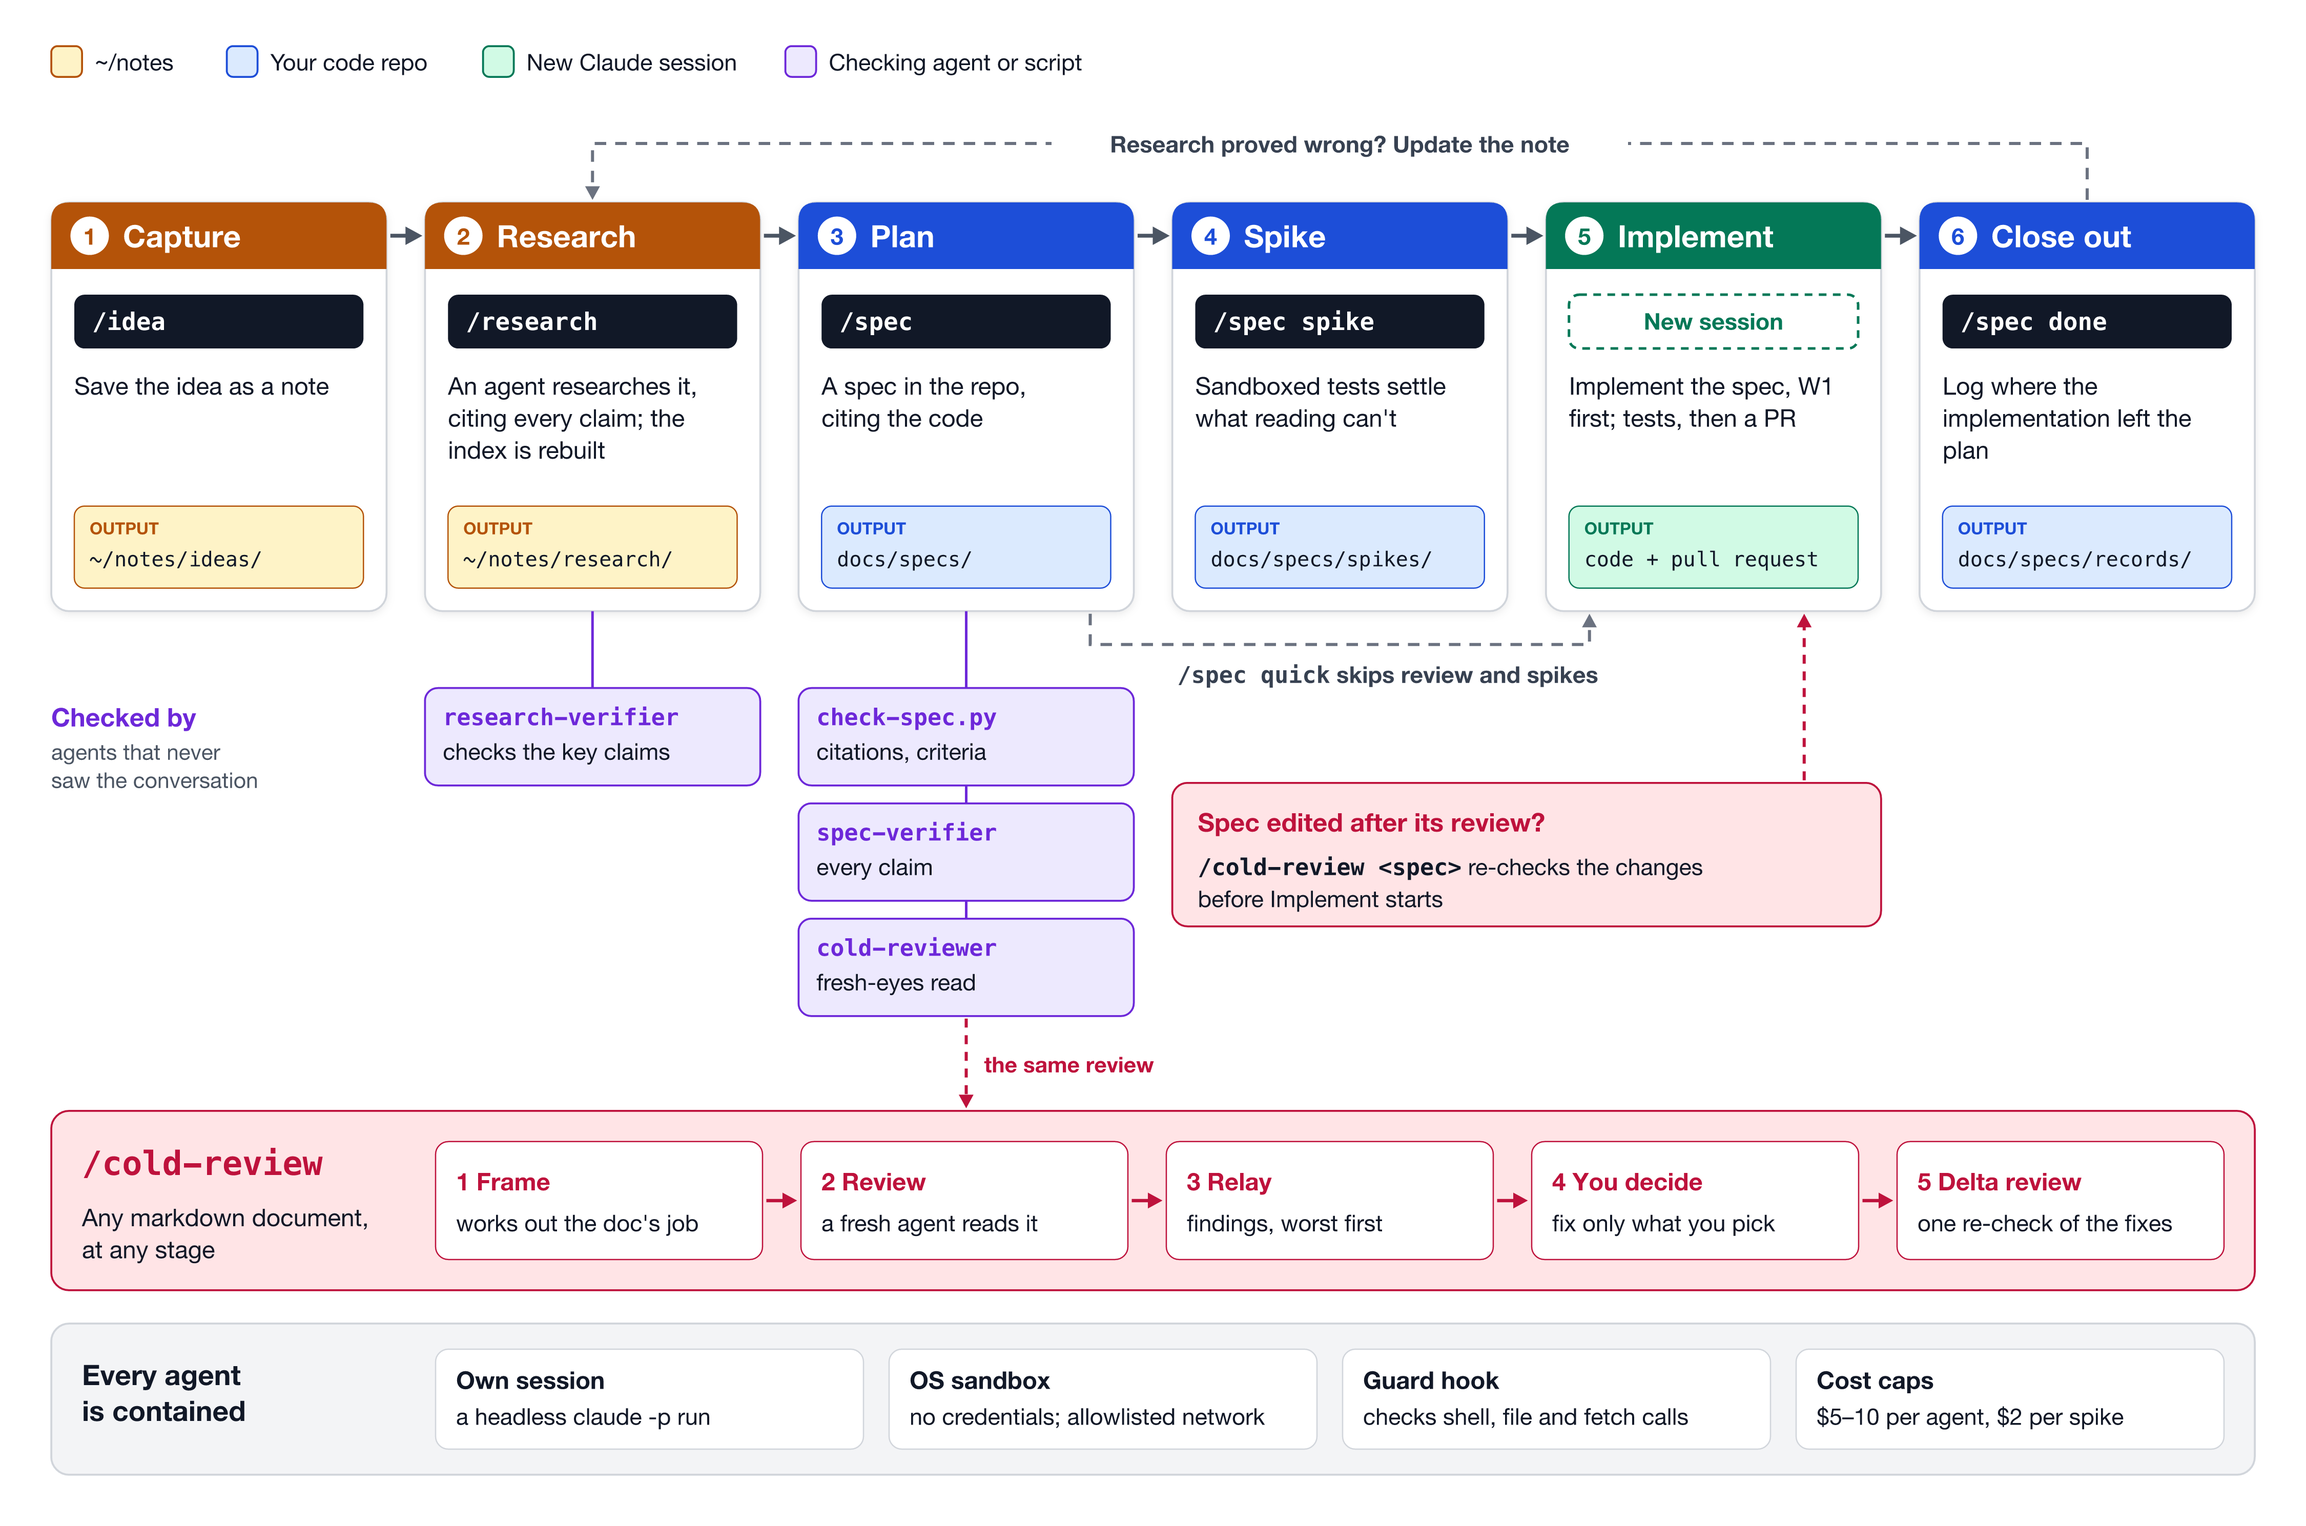
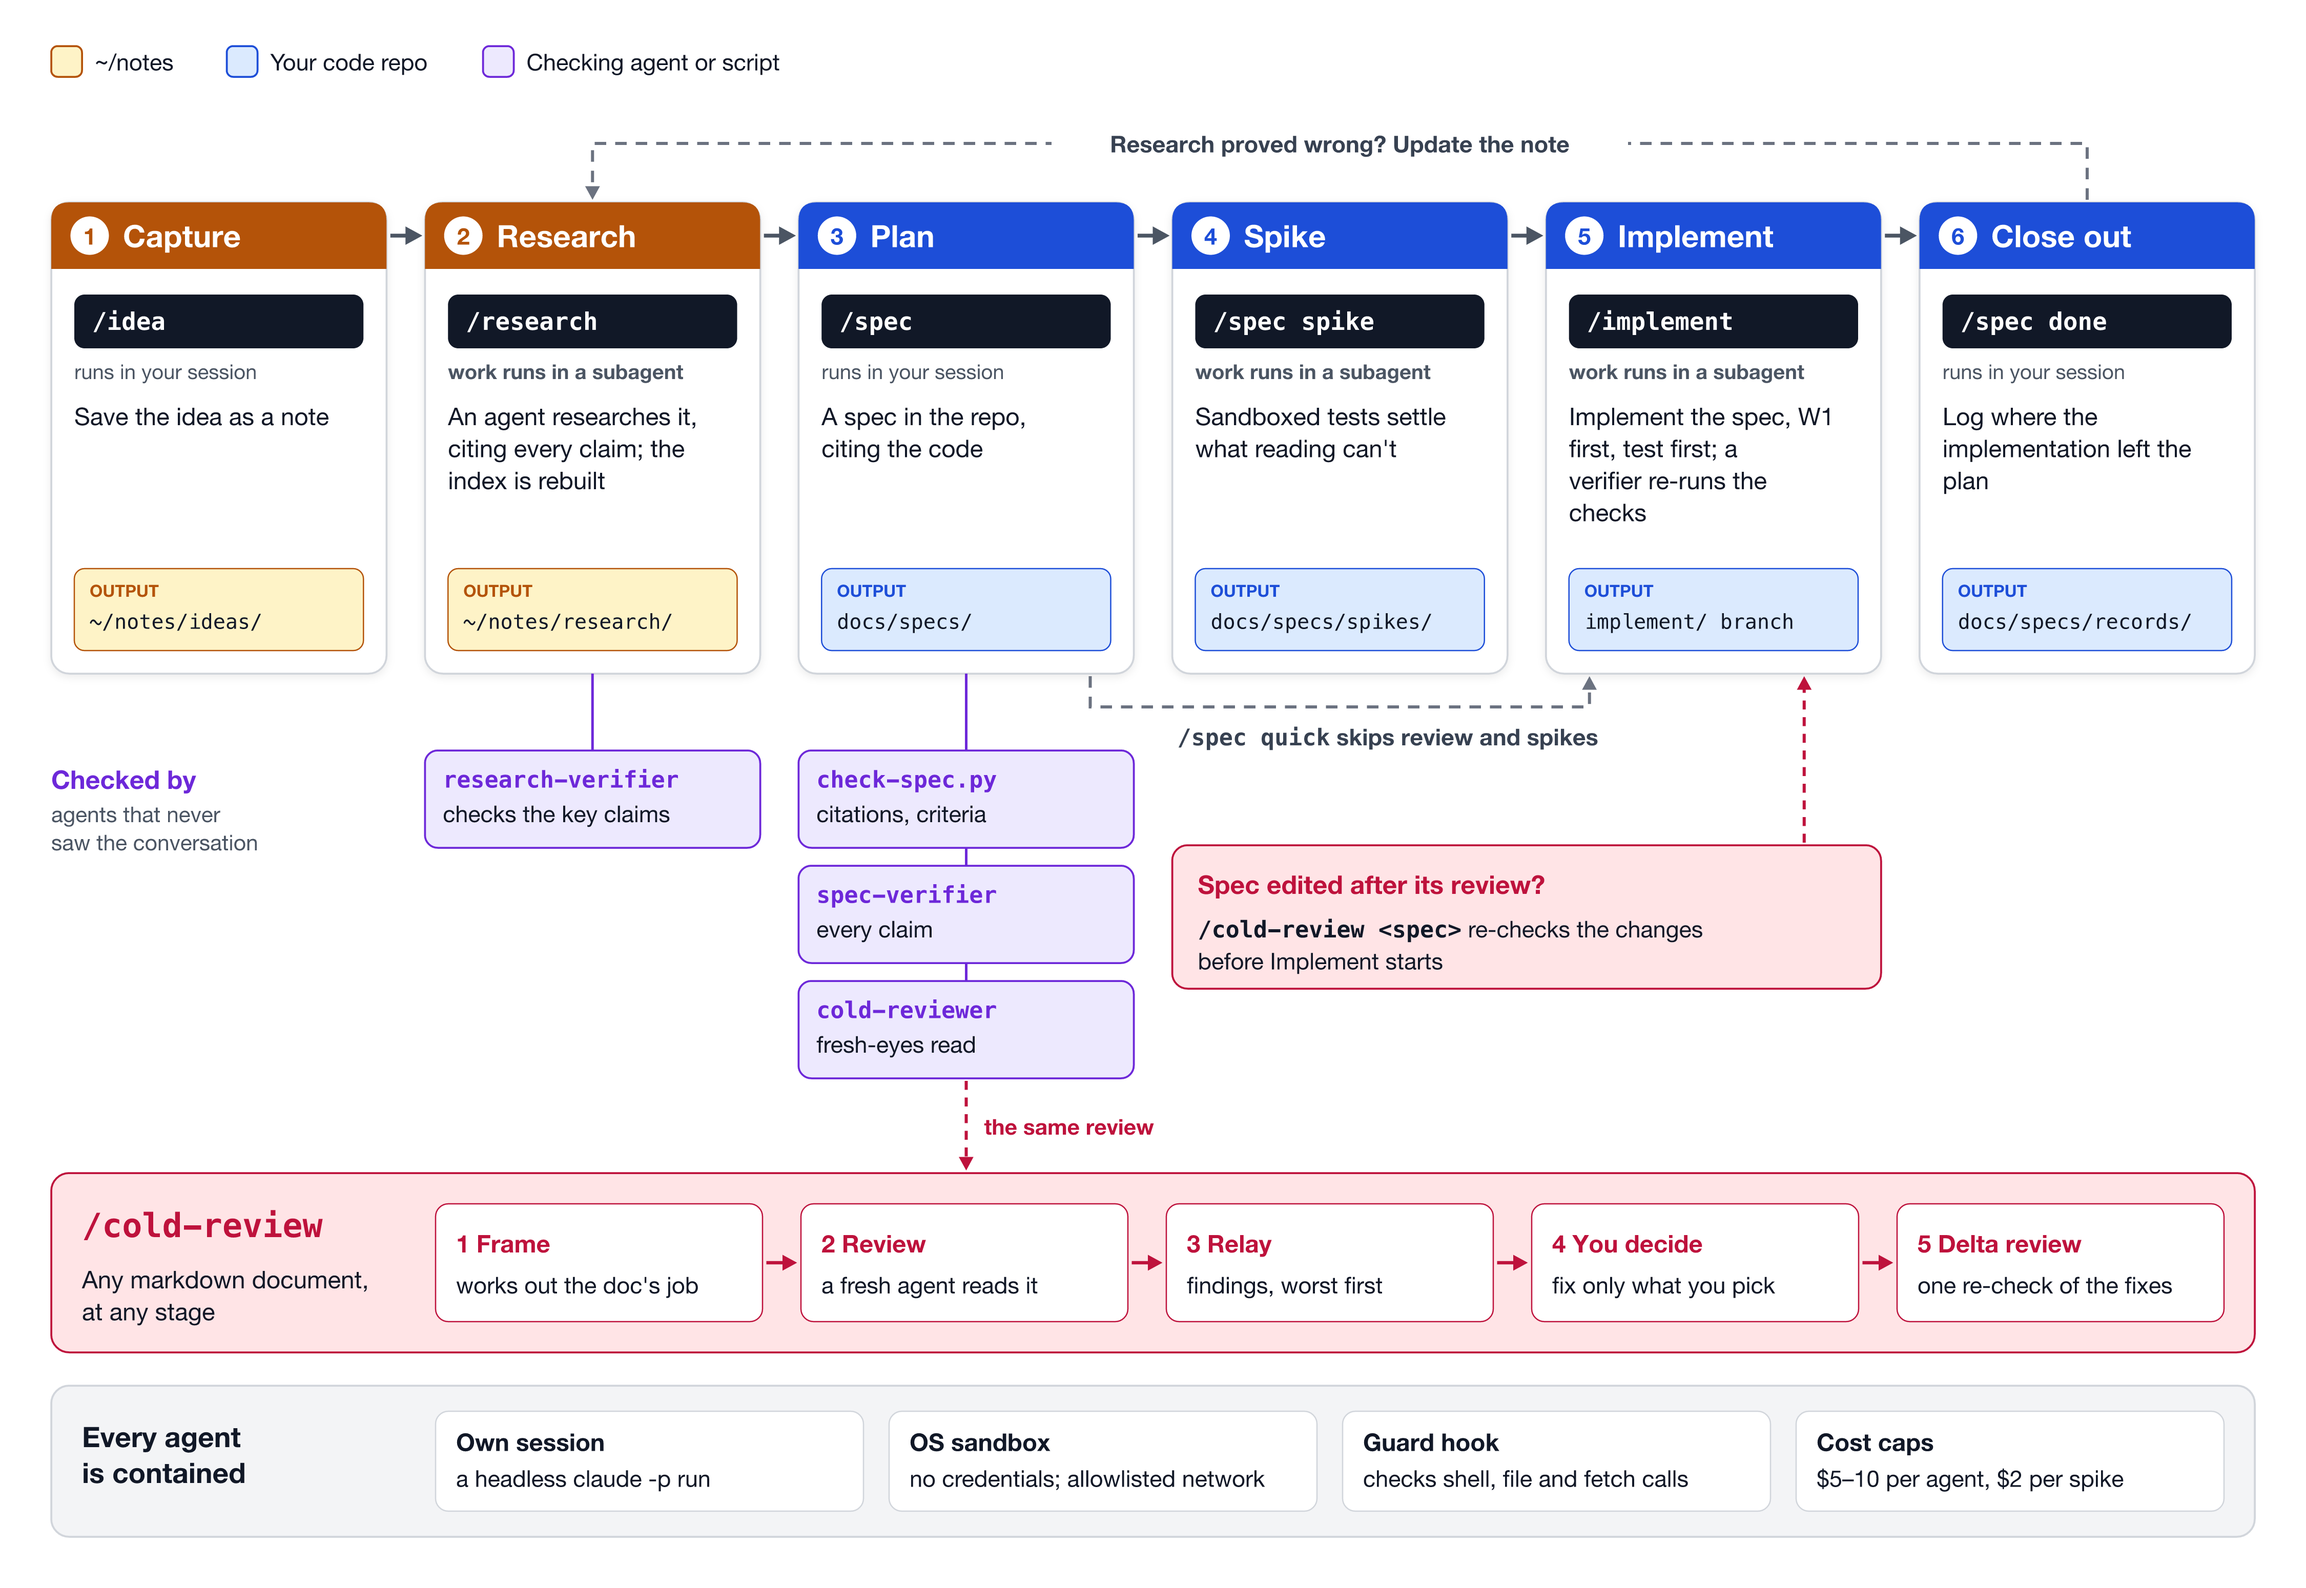
readme: the diagram shows /implement and where each stage's work runs
Stage 5 gets a /implement command box and the repo colour, the New Claude
session key goes, and every stage says whether its work runs in your
session or in a subagent. The README explains the line and marks
/implement as planned. Redrawn, social preview included.

diff --git a/docs/diagram/workflow.py b/docs/diagram/workflow.py
@@ -27,9 +27,10 @@ SANS = "Helvetica Neue, Helvetica, Arial, sans-serif"
 MONO = "Menlo, Monaco, monospace"
 
 # ------------------------------------------------------------------ content
-# (number, title, colour key, command or None for a new session, what happens, output)
+# (number, title, colour key, command or None for a new session, what happens, output,
+#  whether its work runs in a subagent: a separate headless session)
 STAGES = [
-    (1, "Capture", "notes", "/idea", "Save the idea as a note", "~/notes/ideas/"),
+    (1, "Capture", "notes", "/idea", "Save the idea as a note", "~/notes/ideas/", False),
     (
         2,
         "Research",
@@ -37,8 +38,9 @@ STAGES = [
         "/research",
         "An agent researches it, citing every claim; the index is rebuilt",
         "~/notes/research/",
+        True,
     ),
-    (3, "Plan", "repo", "/spec", "A spec in the repo, citing the code", "docs/specs/"),
+    (3, "Plan", "repo", "/spec", "A spec in the repo, citing the code", "docs/specs/", False),
     (
         4,
         "Spike",
@@ -46,14 +48,16 @@ STAGES = [
         "/spec spike",
         "Sandboxed tests settle what reading can't",
         "docs/specs/spikes/",
+        True,
     ),
     (
         5,
         "Implement",
-        "session",
-        None,
-        "Implement the spec, W1 first; tests, then a PR",
-        "code + pull request",
+        "repo",
+        "/implement",
+        "Implement the spec, W1 first, test first; a verifier re-runs the checks",
+        "implement/ branch",
+        True,
     ),
     (
         6,
@@ -62,6 +66,7 @@ STAGES = [
         "/spec done",
         "Log where the implementation left the plan",
         "docs/specs/records/",
+        False,
     ),
 ]
 CHECKS = {
@@ -73,6 +78,9 @@ CHECKS = {
     ],
 }
 LOOP_BACK = "Research proved wrong? Update the note"
+# The line under each stage's command, saying where its work runs.
+RUNS = {True: "work runs in a subagent", False: "runs in your session"}
+RUNS_SHORT = {True: "subagent", False: "in session"}
 QUICK = [("/spec quick", True), (" skips review and spikes", False)]
 DELTA_HEAD = "Spec edited after its review?"
 DELTA_BODY = [
@@ -95,7 +103,6 @@ GUARDS = [
 LEGEND = [
     ("~/notes", "notes"),
     ("Your code repo", "repo"),
-    ("New Claude session", "session"),
     ("Checking agent or script", "check"),
 ]
 
@@ -346,7 +353,7 @@ def wide(theme):
     xs = [X0 + i * (CW + GAP) for i in range(6)]
     cxs = [x + CW / 2 for x in xs]
     bodies = [wrap(s[4], IW, 19) for s in STAGES]
-    BODY_Y = TOP + 52 + 20 + 42 + 36
+    BODY_Y = TOP + 52 + 20 + 42 + 24 + 36
     CARD_H = BODY_Y + max(map(len, bodies)) * 25 - TOP + 12 + 64 + 18
     CARD_B = TOP + CARD_H
     QY = CARD_B + 26
@@ -394,6 +401,7 @@ def wide(theme):
         c.number(x + 30, TOP + 26, st[0], key)
         c.text(x + 56, TOP + 35, st[1], size=24, fill="#FFFFFF", weight="bold")
         c.pill(x + PAD, TOP + 72, IW, 42, st, "card")
+        c.text(x + PAD, TOP + 138, RUNS[st[6]], size=16, fill=t["muted"], weight="bold" if st[6] else "normal")
         c.lines(x + PAD, BODY_Y, bodies[i], size=19, lh=25)
         c.output(x + PAD, CARD_B - 64 - 18, IW, 64, key, st[5])
     for i in range(5):
@@ -550,7 +558,7 @@ def narrow(theme):
     for i, st in enumerate(STAGES):
         n, _, key = st[0], st[1], st[2]
         body = wrap(st[4], DW, 19)
-        base = max(100, 30 + 25 * len(body))
+        base = max(124, 30 + 25 * len(body))
         chips = CHECKS.get(n, [])
         h = base + (74 if chips else 0)
         rows.append((y, h))
@@ -564,6 +572,7 @@ def narrow(theme):
         c.number(RX + 30, y + 30, n, key)
         c.text(RX + 56, y + 38, st[1], size=22, fill="#FFFFFF", weight="bold")
         c.pill(RX + 16, y + 54, BW - 32, 34, st, "block", size=17)
+        c.text(RX + 16, y + 110, RUNS[st[6]], size=15, fill="#FFFFFF", weight="bold" if st[6] else "normal")
         c.lines(DX, y + 40, body, size=19, lh=25)
         c.output(RX + RW - OW - 16, y + 18, OW, 64, key, st[5], size=15)
         if chips:
@@ -717,13 +726,14 @@ def social(theme):
 
     GAP = 18
     BW = (W - 2 * X0 - 5 * GAP) / 6
-    TOP, BH = 268, 158
+    TOP, BH = 268, 176
     for i, st in enumerate(STAGES):
         x, key = X0 + i * (BW + GAP), st[2]
         c.rect(x, TOP, BW, BH, c.col(key, "head"), r=16)
         c.number(x + 28, TOP + 36, st[0], key)
         c.text(x + 50, TOP + 45, st[1], size=24, fill="#FFFFFF", weight="bold")
         c.pill(x + 14, TOP + 84, BW - 28, 48, st, "block", size=19)
+        c.text(x + 16, TOP + 160, RUNS_SHORT[st[6]], size=17, fill="#FFFFFF", weight="bold" if st[6] else "normal")
         if i < 5:
             ay = TOP + BH / 2
             c.arrow([(x + BW + 3, ay), (x + BW + GAP - 3, ay)], t["muted"], width=3)

diff --git a/README.md b/README.md
@@ -38,7 +38,7 @@ apart: it gives any markdown file the same cold review `/spec` gives a spec. Not
 <picture>
   <source media="(prefers-color-scheme: dark)" srcset="docs/workflow-narrow-dark.png">
   <img src="docs/workflow-narrow.png" alt="Workflow diagram. Six stages run in order: Capture with /idea, Research with /research,
-Plan with /spec, Spike with /spec spike, Implement in a new session, and Close out with /spec done.
+Plan with /spec, Spike with /spec spike, Implement with /implement, and Close out with /spec done.
 A research-verifier checks the research; check-spec.py, a spec-verifier and a cold-reviewer check
 the spec. /spec quick skips the review and spikes, a spec edited after its review gets a delta
 review before Implement, and an implementation that overturns the research loops back to update the
@@ -51,6 +51,8 @@ How to read it:
 
 - It follows one change from idea to merged code, top to bottom.
 - Each numbered stage shows the command you run, what it does and where its output goes.
+- Under each command: whether the stage's work runs in your session, or in a *subagent*, a
+  separate headless Claude session that hasn't seen your conversation.
 - Purple boxes are the agents and scripts that check the work.
 - The pink box is a check that runs only if the spec was edited after its cold review.
 - Dashed lines are shortcuts and loops off the main path.
@@ -93,7 +95,11 @@ The six stages match the diagram.
 4. **Spike: `/spec spike <spec>`**, or automatically at the end of `/spec`. Each spike runs as a
    separate Claude session in a scratch copy of the code, inside a sandbox and under a cost cap.
    It writes its verdict and raw output, and `/spec` then updates the spec with the answer.
-5. **Implement** in a new session, working from the spec.
+5. **Implement: `/implement <spec>`**, planned in
+   [two specs](docs/specs/2026-09-26-implement-skill-2-skill.md) and not built yet. It will hand the
+   work to a subagent on its own git worktree and branch, then have a sandboxed verifier re-run
+   each work item's Done when check. Until then, implement in a new session, working from the
+   spec.
 6. **Close out: `/spec done <spec>`**. It notes in the record where the implementation left
    the spec, marks the spec done, and points out any research the implementation proved
    wrong.

diff --git a/records/README-record.md b/records/README-record.md
@@ -80,3 +80,4 @@ Needs a run: none
 - Not reviewed: the diagram's stage 2 says the index is rebuilt and its research-verifier "checks the key claims", redrawn, from the README delta review (2026-09-27) row 4, on 2026-09-27.
 - Not reviewed: View the notes as a mind map says notes with no topic or no research note go under Unfiled, from the README delta review (2026-09-27) row 8, on 2026-09-27.
 - Not reviewed: stage 5 is renamed from Build to Implement in the stage list, the worked example, Close out and the diagram's alt text, and 'build' becomes 'implement' where it meant that stage; the diagram's loop-back label now reads 'Research proved wrong? Update the note', on 2026-09-27.
+- Not reviewed: the diagram's stage 5 shows `/implement`, each stage says whether its work runs in your session or in a subagent, and the New Claude session colour is gone; How to read it explains the subagent line; stage 5 in the list names `/implement` as planned, with what it will do and what to do until it lands, on 2026-09-27.
